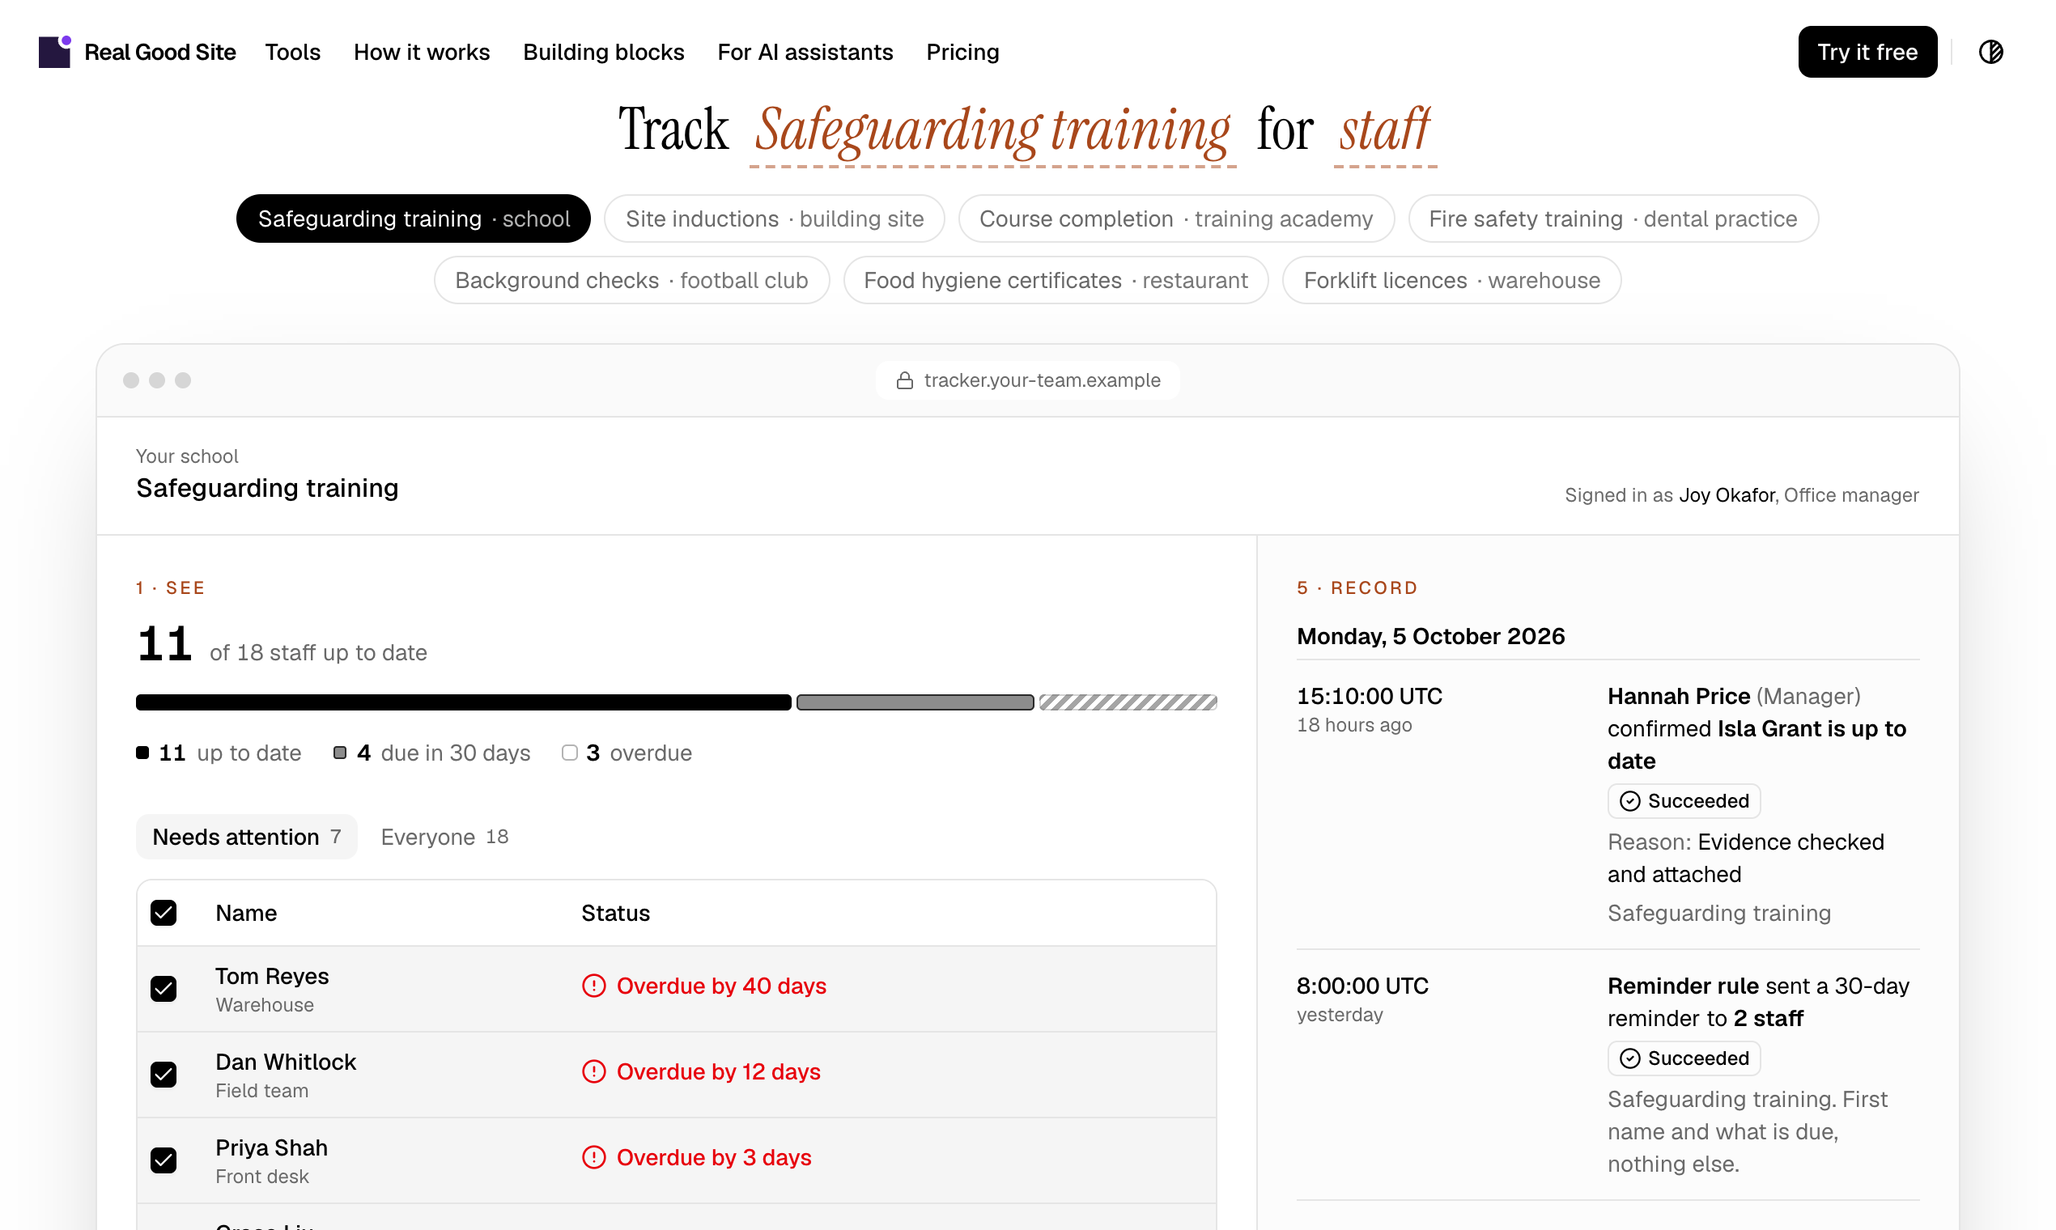
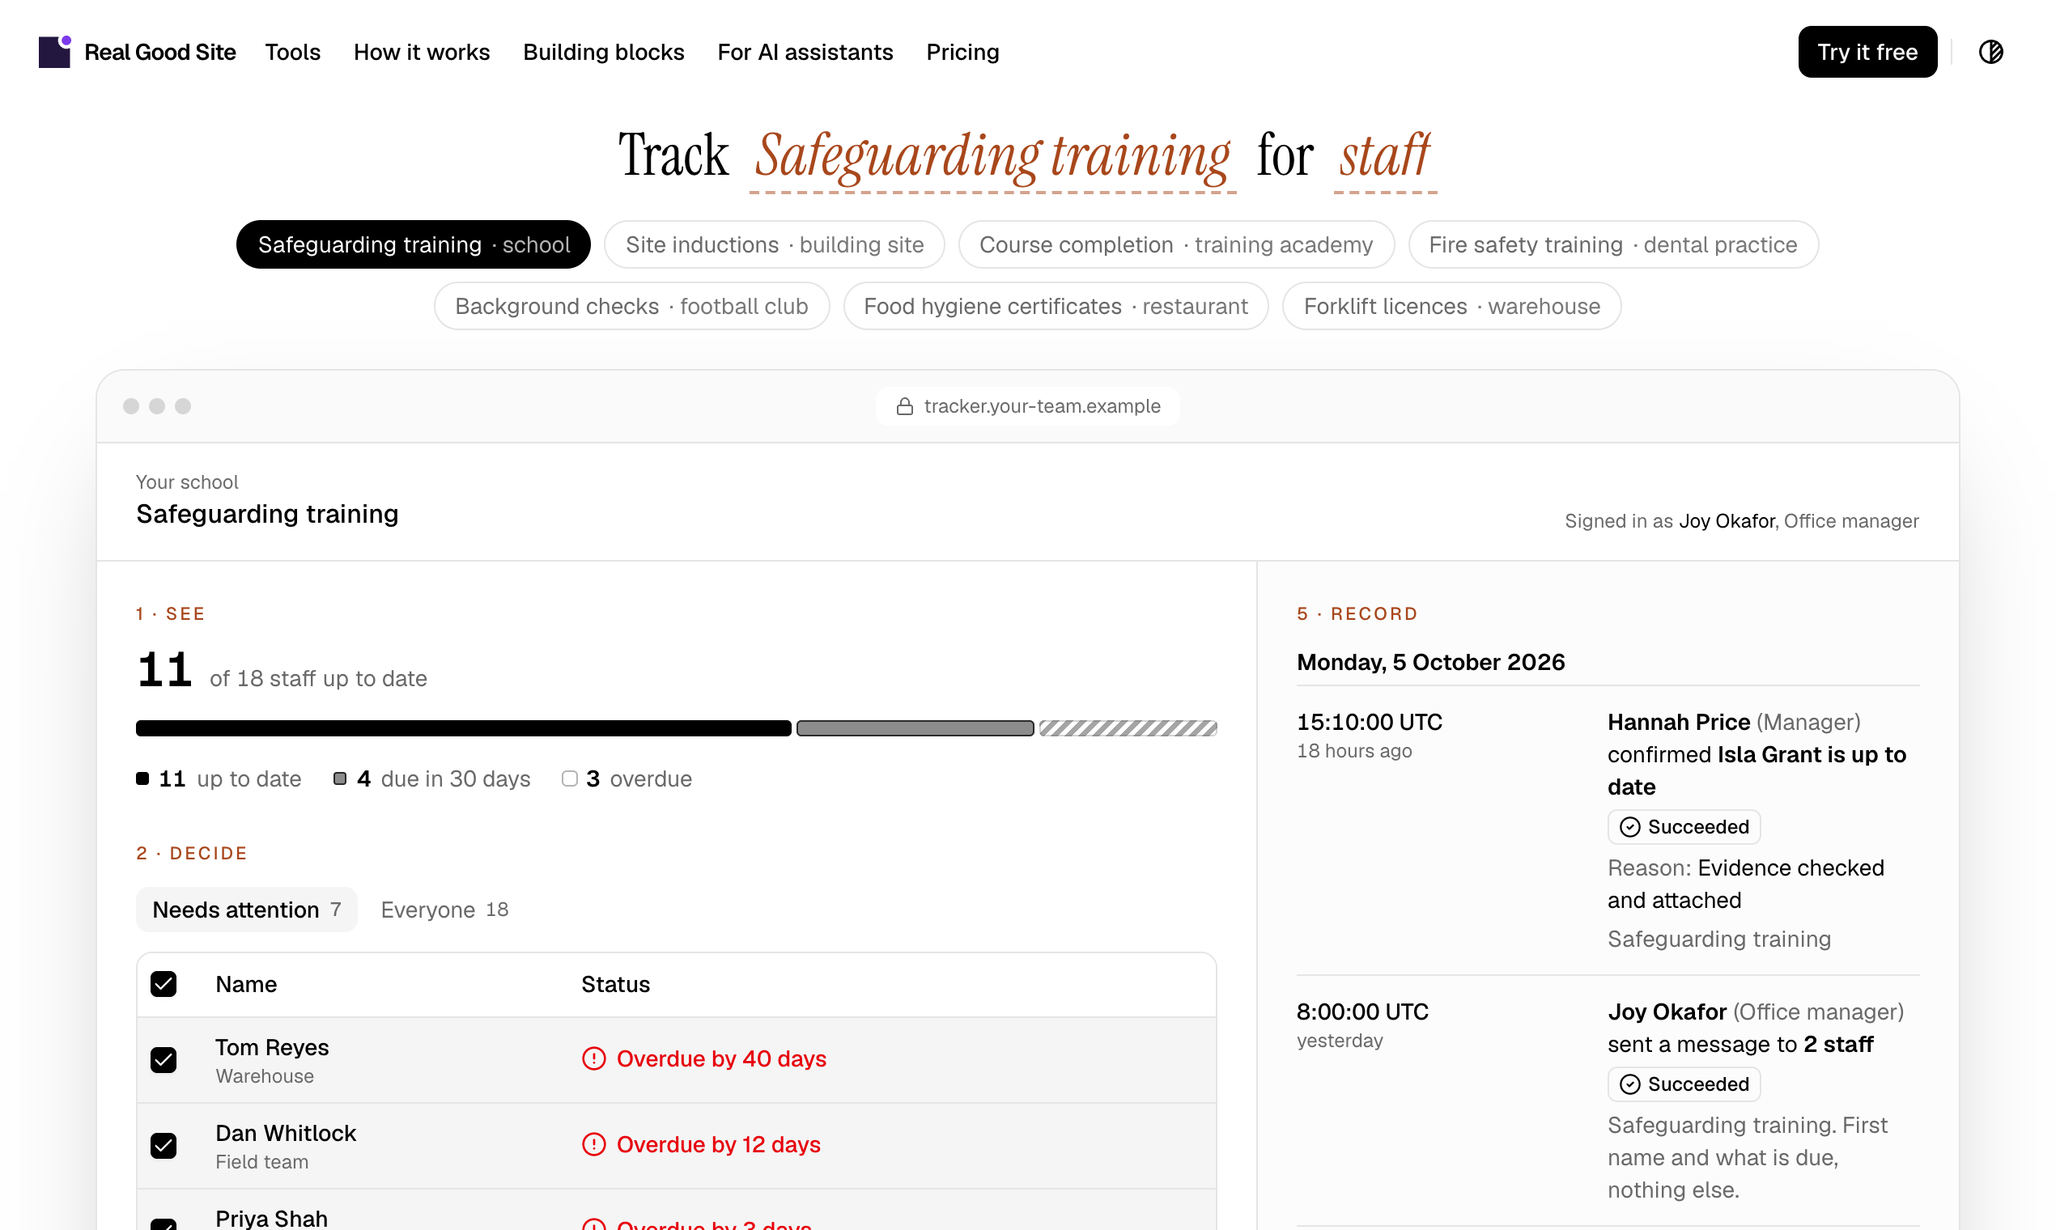
launch(producthunt): run 3 recording setup, product.md synced to the live site, test-key rows 31-37
product.md: remind -> message (description, first comment, sources), drop "real reminders"
from the Pro line, update the Not-claimed row; gallery shot 1 re-shot from the live demo.
runs/2026-10-08-record/notes.md: iRecord findings (Stage Manager gate, window picker lists the
active tab's title, series on disk, dev-build --drive-capture driver) for the skill revision.
Nothing was recorded or submitted in this run.

diff --git a/launch/producthunt/runs/2026-10-08-record/notes.md b/launch/producthunt/runs/2026-10-08-record/notes.md
@@ -1,0 +1,108 @@
+# Run 3 (recording run), 2026-10-08: notes for the next SKILL.md revision
+
+Goal: a usable iRecord video of the Product Hunt submission, filled from scratch. Draft secondary.
+Answers at step 0: sync copy first, fill to 100% (no save), tags as product.md (4th tag "GitHub"), start fresh.
+Updated as the run goes; each line is a candidate change to SKILL.md ("Recording with iRecord" unless noted).
+
+## Step 0 and preconditions
+1. **Series choice is a missing step-0 question** (Ari, mid-run): reuse an existing series or make a new one. Check
+   first in iRecord Home, list view, "Series" column. Found: "Product Hunt draft" (run 1, 1 recording). "Real Good
+   Site on Product Hunt" (named in memory) was not shown; its recording had no series.
+2. **"From scratch" is a step-0 answer to record** (Ari, mid-run): empty form, every field filled on camera, no
+   resume. `/posts/new` showed no "Your existing in progress posts" this time.
+3. **Stale product.md check belongs in step 0**: it still said "remind" and "real reminders" (Ari's no-reminders
+   rule, 2026-10-08). Fixed in the worktree after Ari chose "Sync, then fill"; gallery shot 1 re-shot.
+4. **Gallery script needs puppeteer-core in cwd.** A fresh worktree has no node_modules. Working fix, no install:
+   scratchpad dir with `node_modules/.pnpm` symlinked to the main checkout's store, run
+   `node ~/.claude/skills/producthunt-draft/scripts/capture-gallery.cjs shots.json` from that dir. The skill says
+   `scripts/capture-gallery.cjs` (relative to the repo, wrong: it lives in the skill folder). Selector that works
+   for the tracker demo: `section[aria-label="The training tracker, live"]`, offset 40.
+5. Upload assets must be copied to the scratchpad (a mid-session worktree is not a session folder).
+
+## Recording with iRecord
+6. **The picker's "delivers N of N pt wide" is the only trustworthy width.** `app_list_windows` said Chrome was
+   1280×900 while iRecord read "394 of 394 pt wide" (Chrome in the Stage Manager strip). Retina doubles pt to px, so
+   the 1000 px guard is 500 pt: 394 pt would have been caught.
+7. **The Window picker is a popover.** AXPress on the "Window" button works in the background; the items inside
+   (Full Screen / Window / iPhone, "Choose window…", "All windows…" chevron) are refused ("modal sheet, dimmed
+   area"; the chevron's frame starts at x=-13). Picking needs `request_full_control` and display-scope clicks.
+8. **Chrome is read tier: its Stage Manager thumbnail cannot be clicked by me.** The user must shift-click it. After
+   the user said "Chrome is on stage", iRecord still read 394 pt and my screenshot still showed the strip thumbnail:
+   verify with the picker number, never with the user's word alone.
+9. **Escape in the New Recording sheet cancels the whole sheet** (back to Home). Do not use it to close the
+   popover. Click the "Window" button again to close it.
+10. **The picker lists windows by active-tab title.** Load Product Hunt in the extension tab BEFORE picking (Ari,
+    mid-run). Before that the window was "New Tab", next to "New Website | DataFast" and several Finder windows
+    ("Applications", "Desktop — Local", …).
+11. **Home's "Plan a Series" tile is a canvas** (no AX action, background click refused). File → New Recording works
+    through `app_menu` in the background. `Recording` menu: Start Recording, Stop Recording, Pause/Resume.
+12. **Display-scope typing garbled the first series name** ("aReall Goord Sitee: PH daraft recordring runy").
+    After cmd+a and a retype it was clean. Zoom to verify every typed field in iRecord.
+13. **"Camera" has no On/Off label** (Mic and System audio do). Untitled Recording 4 (17:37, 3360×2100, 19 s) has a
+    `take-001.camera.mp4`: check Camera's real state before recording.
+14. **Full control hides non-allowlisted windows** (System Settings, iRecord Dev, WindowManager) while it runs.
+    Tell the user; call `release_full_control` when done.
+15. 3360×2100 = the 1680×1050 display at 2×. Untitled Recording 4 at 17:37 was a full-display take, not in the
+    handoff; unexplained.
+
+16. **iRecord's search field also matches series names.** Typing "Product Hunt" jumps to that series' section with
+    "Plan next lecture…". The Home grid is one narrow column and scrolls very slowly (15 ticks ≈ 100 px).
+
+18. **"Plan next lecture…" on an existing series reopens that series' OLDEST unfinished recording** (here run 1's
+    "Untitled Recording": Section 1, Pilot A recorded, Pilot B blank), not a fresh one. Recording into it would put
+    the new video inside the project Ari means to delete. To reuse a series, plan a NEW recording with the same series
+    name (Plan a Series → same name) instead, and say which project the take lands in.
+
+## Fan-out (Ari, mid-run: "instruct to fan out subagents as needed when we are starting this operation")
+17. **Add a "Start of the operation" block to SKILL.md that fans out subagents for the read-only prep**, which this
+    run did one tool call at a time (~25 calls before iRecord was touched). Design, for reliability:
+    - **Fan out (parallel, one message, scoped briefs):**
+      a. *Copy-sync agent*: diff product.md against the live site and its source files (labels, claims, counts);
+         returns a list of stale lines with file:line evidence. Read-only; the main thread edits and shows the diff.
+      b. *Gallery agent*: re-shoot the shots (symlink trick from item 4), check 1270×760 at 2×, ≤2 MB, copy to the
+         scratchpad upload folder, return paths and sizes.
+      c. *Baseline agent*: `df`, newest takes with `ffprobe`, series names from iRecord's folders on disk
+         (not the iRecord UI), the in-progress-post state from the saved draft list in memory/notes.
+      d. *After the run: verify agent*: `ffprobe` the final take, extract ~6 frames with `ffmpeg` at even
+         intervals into the scratchpad, look at them, report width, duration, size and whether the PH form shows.
+    - **Never fan out UI work.** One screen, one Chrome tab, one iRecord window, one cursor: parallel agents would
+      race for focus and Stage Manager. Only the main thread drives iRecord and the extension tab.
+    - Briefs must be self-contained (paths, limits, what NOT to touch), write only inside the scratchpad, and return
+      under ~15 lines. The main thread re-checks the numbers that gate the run (width, sizes) itself, because a
+      subagent's summary comes back confident whether or not it is right.
+    - Skip the fan-out when the prep is already done (a re-run) or the run is a quick test: a fresh agent costs more
+      than a handful of calls.
+
+## Late findings (after Ari's "take stock" request)
+19. **Window title = the window's ACTIVE tab.** Chrome window 35997 read "New Tab - Google Chrome - Aristides" in
+    `app_list_windows` and "New Tab" in iRecord's list for minutes after the extension's own tab (in its tab
+    group) had loaded Product Hunt. The extension cannot make its tab active, so the user must click it.
+20. **"Untitled Recording 4" is not ours.** It is a `--drive-capture` take from another session's iRecord QA
+    (`~/Library/Logs/iRecord/drive-capture.txt`, 14:37Z: full display 3360×2100, camera ON, 30 s planned with a
+    pause, 19 s). Never treat it as this run's video; never delete it.
+21. **iRecord has a scripted driver, but only in the dev build** (`~/Applications/iRecord Dev.app`, `#if DEBUG`):
+    `--drive-capture --seconds <n> [--into <slug>] [--new-section | --retake <n>]` records the FULL DISPLAY with
+    no dialog, no pointer, no Stop to press (`~/Documents/irecord/CLAUDE.md:295`, `DriveCaptureCLI.swift`). It
+    reads camera/mic/frame rate from `defaults` at launch (the QA run left the camera ON) and is launched with
+    `open -n -a … --args …` (a shell-exec'd binary has no Screen Recording grant). Also `--dump-windows
+    [--probe]`: every SCWindow with its `contentRect` next to the pixel size a take would use: a scriptable
+    version of the "delivers N of N pt wide" gate. Neither was tried for Product Hunt.
+22. **Series are on disk**: `~/Movies/iRecord/Projects/<project>/project.json` has `"series"`. After this run's
+    planning, "Untitled Recording 5" = series "Product Hunt draft", one scene "Fill the Product Hunt submission
+    from sc…" (speakerNotes "Fill the Product Hunt submission from scratch"), `recordings: []`. Open it from
+    Home by its thumbnail (NOT "Plan next lecture…", which opens run 1's project) and click "Record Section".
+23. Opening run 1's "Untitled Recording" through "Plan next lecture…" changed its Date Modified to "now"
+    (nothing else; it is still the project Ari means to delete).
+24. Cancelling the Ready sheet for Section 1 turned the plan from "0 of 2" into "0 of 1" sections: the empty
+    "Section 1" is a placeholder, not a section the user plans.
+25. **Reported state vs instrument:** Ari said Chrome was on stage; iRecord's preview still read 394 pt and the
+    strip thumbnail was still there. The number decides.
+26. Stopped state: nothing recorded. iRecord at the "Untitled Recording" (0 of 1 sections) editor; full control
+    released; the extension's tab closed; no PH post started (`/posts/new` showed no in-progress post).
+
+## Open
+- Does the 394 pt reading change once Chrome is truly on stage (record-time vs pick-time)?
+- Does `Record in 3s` by AXPress work with iRecord in the strip? Does the indicator's Stop work by AXPress?
+- Driver route: does `--drive-capture` work from a Bash `open -n -a …` here with the camera off, and does the
+  display show only Chrome when the user presses ⌃⌘F? Is a licence/permission prompt raised?
+- `--dump-windows --probe`: does it list the Product Hunt window with a sensible `contentRect`?

diff --git a/launch/producthunt/product.md b/launch/producthunt/product.md
@@ -2,7 +2,8 @@
 
 Facts and copy for one Product Hunt post. Every claim has a source, and if a source changes, this file is
 wrong until it is corrected. Live claims only: anything the site says that is not built or not proven is
-listed under *Not claimed*. Checked 2026-10-08 against main `24a36cfc` and the live site.
+listed under *Not claimed*. Checked 2026-10-08 against main `24a36cfc` and the live site. Wording re-synced
+later that day against main `e07f18f0` and the live demo (remind → message; gallery shot 1 re-shot).
 
 **Status: DRAFT SAVED 2026-10-08:** https://www.producthunt.com/products/real-good-site?launch=real-good-site (run notes: `runs/2026-10-08/notes.md`). **DRAFT ONLY.** Pro and its one-click setup are not built, and the prices are placeholders. The end
 state is Product Hunt's "Create draft". Never Schedule or Launch.
@@ -28,7 +29,7 @@ state is Product Hunt's "Create draft". Never Schedule or Launch.
 PH's limit is 500 (form, 2026-10-08); 260 kept as the house limit.
 
 > A training tracker for whoever keeps the spreadsheet. Try it free with made-up people, no sign-up: see
-> who's up to date, due or overdue, pick who to remind and see the count before you send. Each send
+> who's up to date, due or overdue, pick who to message and see the count before you send. Each send
 > lands on the record. Built from open-source (MIT) parts.
 
 ### First comment
@@ -39,8 +40,8 @@ PH's limit is 500 (form, 2026-10-08); 260 kept as the house limit.
 > runs out next month, who still hasn't signed. Usually it's a spreadsheet, and the chasing happens by hand.
 >
 > Real Good Site starts with a tracker for that job. You can try it now with made-up people: type what you
-> track and who, see who's up to date, due or overdue, pick who to remind and press Send. It tells you how
-> many people it is about to remind before anything happens, and the send lands on a record of who did
+> track and who, see who's up to date, due or overdue, pick who to message and press Send. It tells you how
+> many people it is about to message before anything happens, and the send lands on a record of who did
 > what and when. Nothing is sent or saved in the demo.
 >
 > It's made from building blocks I've used on my own sites: Setian, MichiKanji, RapidSafeSystems and
@@ -48,7 +49,7 @@ PH's limit is 500 (form, 2026-10-08); 260 kept as the house limit.
 > there's a complete free example: a calibration recall desk with a two-person sign-off.
 >
 > What isn't ready yet, said plainly: Pro, which takes the tracker live in your own accounts (sign-in,
-> your own database, real reminders) for $149 once per tool, is what I'm building next, along with policy
+> your own database) for $149 once per tool, is what I'm building next, along with policy
 > sign-offs, approvals, inspections and an incident log. I'd love to hear which list you keep and what it
 > should do for you.
 
@@ -64,7 +65,7 @@ PH's limit is 500 (form, 2026-10-08); 260 kept as the house limit.
 | Tracker covers training, certificates, licences | `apps/v4/lib/tools.ts` training-tracker `examples`; tracker page eyebrow |
 | Free to try with made-up people, no sign-up, nothing sent or saved | `components/marketing/training-tracker-demo.tsx` footer ("Made-up people… Nothing is sent or saved."); no sign-in exists on the site |
 | Up to date / due / overdue | `training-tracker-demo.tsx` StatusStrip segments ("up to date", "due in 30 days", "overdue") |
-| Pick who to remind; count shown before send | `training-tracker-demo.tsx` `ConfirmSend` (`count={selected.size}`); `tools.ts` TRACKER_MOMENTS "Every send shows the count first" |
+| Pick who to message; count shown before send | `training-tracker-demo.tsx` `ConfirmSend` (`label="Send message"`, `count={selected.size}`); `tools.ts` TRACKER_MOMENTS "Every send shows the count first" |
 | Each send lands on the record | `training-tracker-demo.tsx` `sent` events prepended to the `AuditTimeline` |
 | Building blocks open source, MIT | `LICENSE.md`; pricing page Free plan; every `/r/<item>.json` checked returns 200 (status-strip, confirm-send, audit-timeline, approval-step, alert-rules, data-table, calibration-desk) |
 | Instructions written for AI assistants | `/docs/ai` (live 200); `skills/crisp-ui/SKILL.md` |
@@ -80,7 +81,7 @@ PH's limit is 500 (form, 2026-10-08); 260 kept as the house limit.
 | On the site today | Why it stays out |
 |---|---|
 | "Describe it in plain words and your AI assistant makes it yours" / "Make it yours" | The four-question output tells the assistant to run `npx shadcn@latest add https://realgood.site/r/training-tracker.json` (`components/marketing/make-it-yours.tsx:66`), which is **404** on the live site. |
-| "One click sets up sign-in, your database and email reminders" / Pro's feature list | Pro is not built (memory `project_crisp_ui_positioning.md`). The post names Pro and its price only, as not ready. |
+| "One click sets up sign-in and your database in accounts you own" (landing, `app/(app)/(root)/page.tsx:58`) / Pro's feature list | Pro is not built (memory `project_crisp_ui_positioning.md`). The post names Pro and its price only, as not ready. Reminders are never claimed: the site has none (Ari, 2026-10-08). |
 | Done for you, from $900 | Placeholder price; not mentioned. |
 | "We never store your records" / "never pass through us" | No backend exists yet, so the claim is unproven. |
 | "Works with Lovable, Claude and Cursor" | No evals yet. |

diff --git a/launch/producthunt/test-key.md b/launch/producthunt/test-key.md
@@ -43,6 +43,13 @@ Sources: `runs/2026-10-08/notes.md` (run 1: fill + Create draft) and `runs/2026-
 | 28 | update form, sidebar | Edit Product Page · Main info · Images and media · Makers · Shoutouts · Extras · Connect with Investors · Launch checklist (no "Hunter & makers") | navigate by these labels | run 2 |
 | 29 | public row after Create draft | Productivity · Open Source · GitHub; "Human Resources" (chosen third) hidden | in the Create draft question | run 2 |
 | 30 | tooling, not PH | Chrome `file_upload` refused a file outside the session's folders (a worktree entered mid-session) | copy the asset to the scratchpad | run 2 |
+| 31 | step 0, product.md | stale against the live site: "remind" where the site says "message", "real reminders" on Pro, gallery shot 1 of the old demo (Ari's no-reminders rule, 2026-10-08) | flagged in the question round, synced, diff shown, approved before filling | run 3 |
+| 32 | iRecord Home | series names live in `~/Movies/iRecord/Projects/*/project.json` (`"series"`); "Plan next lecture…" reopens the series' OLDEST unfinished recording, not a fresh one | series reuse asked in step 0; a NEW recording planned with the same name | run 3 |
+| 33 | iRecord window picker | lists windows by the ACTIVE tab's title: the extension's window reads "New Tab" until the user clicks the Product Hunt tab | PH loaded first, tab activated by the user, title checked in `app_list_windows` before picking | run 3 |
+| 34 | iRecord Ready screen | the Window picker is a popover: background clicks are refused ("modal sheet"); Escape cancels the whole sheet; the Camera button does not say On/Off | display-scope clicks after `request_full_control`; popover closed by its own button; camera popover opened and read | run 3 |
+| 35 | iRecord preview, Stage Manager | "delivers N of N pt wide": 394 with Chrome in the strip while AX bounds say 1280×900; the user's "it's on stage" was wrong | gate N ≥ 500 before Record; `scripts/probe-take.sh` within 5 s | run 3 |
+| 36 | `~/Movies/iRecord/Projects/` | other sessions record there (dev QA `--drive-capture` take "Untitled Recording 4", 3360×2100, camera on) | not treated as the run's video, never deleted | run 3 |
+| 37 | tooling | `capture-gallery.cjs` found no `puppeteer-core` in a fresh worktree | `PUPPETEER_FROM=<main checkout>` | run 3 |
 
 ## Grades: run 2 (2026-10-08 test, scope B, dedicated worktree)
 
@@ -105,6 +112,7 @@ unless SKILL.md has since gained a question for it (then grade the question):
 | Run | Scope | Log rows | Minutes | Context tokens | Stops beyond the round and saves |
 |---|---|---|---|---|---|
 | 2026-10-08 run 1 | fill + Create draft, iRecord on | 40 | 11.5 | not recorded | questions asked as they came |
+| 2026-10-08 run 3 (recording setup) | iRecord on, stopped before Record; no PH form touched | n/a | ~70 | not measured | 5 mid-run user notes (series, from scratch, PH tab first, fan-out, notes); rows 31–37 |
 | 2026-10-08 retest | A (no save) + edit path | 57 | 18.5 | 220,668 (27% of the 5-hour window) | 4 |
 
 Target: zero stops beyond the question round and saves, and fewer than 57 rows for scope A.
